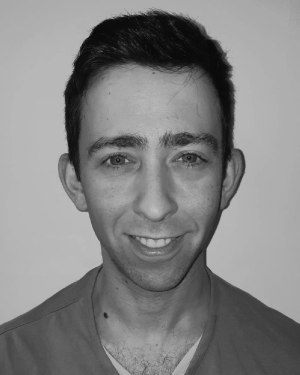
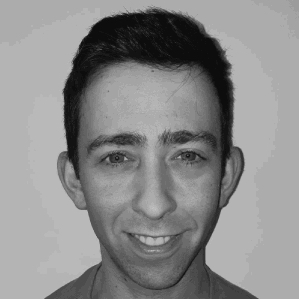
harel

diff --git a/_pages/seminars.md b/_pages/seminars.md
@@ -9,7 +9,7 @@ Upcoming events
 
 
 <!----->
-<img src="../images/cat.jpg" style="float:right;width:100px;height:100px;margin-top:15px">
+<img src="../images/harel.jpg" style="float:right;width:100px;height:100px;margin-top:15px">
 - 12 May 2022, 16:00  
 **Harel Berger, Ariel University**  
 Advanced Android malware attacks against ML detection systems  
